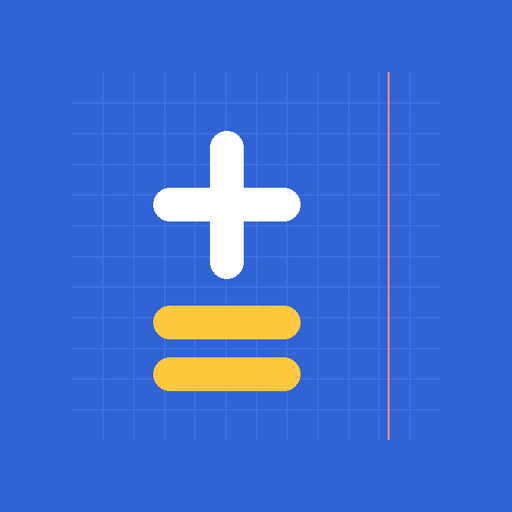
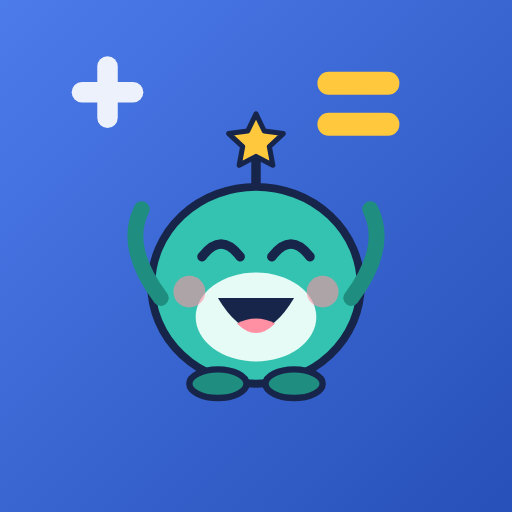
סמל אפליקציה חדש (ילדים והורים) ואייקון למסך הבית באייפון גם בלוח ההורה
Claude-Session: https://claude.ai/code/session_014ttihEUpFdSVFTv5AGT9pC

diff --git a/parent.html b/parent.html
@@ -5,7 +5,14 @@
 <meta name="viewport" content="width=device-width, initial-scale=1, viewport-fit=cover">
 <title>התקדמות הילדים</title>
 <meta name="robots" content="noindex">
-<link rel="icon" href="icon-192.png" type="image/png">
+<link rel="manifest" href="parent.webmanifest">
+<meta name="theme-color" content="#17254A">
+<meta name="apple-mobile-web-app-capable" content="yes">
+<meta name="mobile-web-app-capable" content="yes">
+<meta name="apple-mobile-web-app-title" content="התקדמות">
+<meta name="apple-mobile-web-app-status-bar-style" content="default">
+<link rel="apple-touch-icon" sizes="180x180" href="parent-apple-touch-icon.png">
+<link rel="icon" href="parent-icon-192.png" type="image/png">
 <link rel="preconnect" href="https://fonts.googleapis.com">
 <link rel="preconnect" href="https://fonts.gstatic.com" crossorigin>
 <link rel="preconnect" href="https://www.gstatic.com" crossorigin>

diff --git a/sw.js b/sw.js
@@ -1,6 +1,6 @@
 // sw.js — מטמון בסיסי כדי שהאפליקציה תיפתח גם בלי חיבור.
 // מעלים את VERSION בכל פעם שמעדכנים קבצים, כדי שהמכשירים יטענו את הגרסה החדשה.
-const VERSION = 'v14';
+const VERSION = 'v15';
 const CACHE = 'math-app-' + VERSION;
 const SHELL = ['./', 'index.html', 'app.js', 'engine.js', 'times.js', 'insights.js', 'ability.js', 'family.js', 'store.js', 'fb.js', 'config.js', 'style.css', 'manifest.webmanifest', 'icon-192.png', 'icon-512.png', 'icon-maskable-512.png', 'apple-touch-icon.png'];
 

diff --git a/index.html b/index.html
@@ -11,7 +11,7 @@
 <meta name="mobile-web-app-capable" content="yes">
 <meta name="apple-mobile-web-app-title" content="חשבון יומי">
 <meta name="apple-mobile-web-app-status-bar-style" content="default">
-<link rel="apple-touch-icon" href="apple-touch-icon.png">
+<link rel="apple-touch-icon" sizes="180x180" href="apple-touch-icon.png">
 <link rel="icon" href="icon-192.png" type="image/png">
 <link rel="preconnect" href="https://fonts.googleapis.com">
 <link rel="preconnect" href="https://fonts.gstatic.com" crossorigin>
